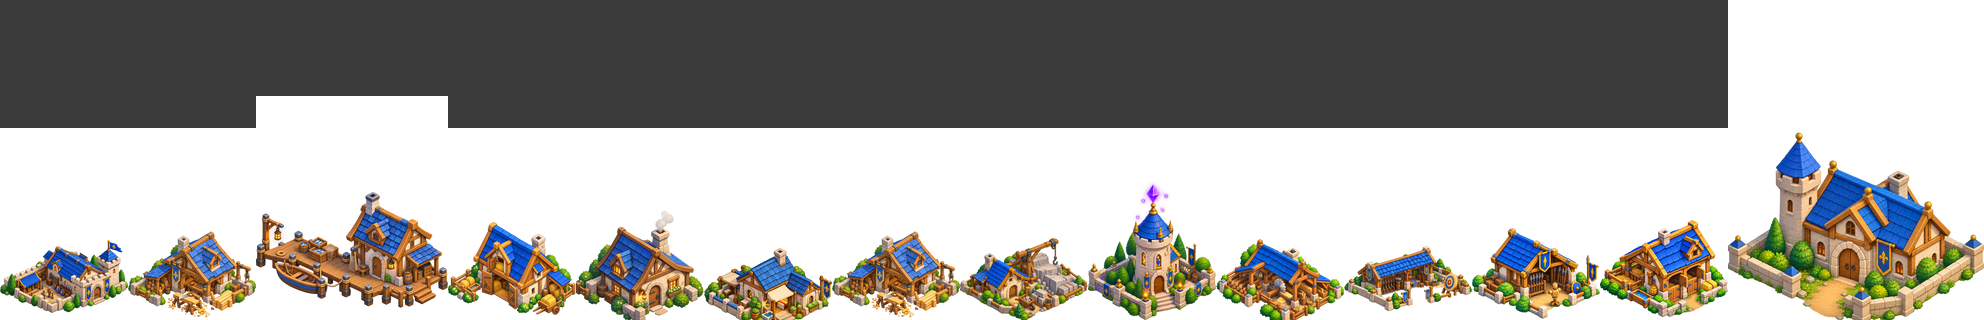
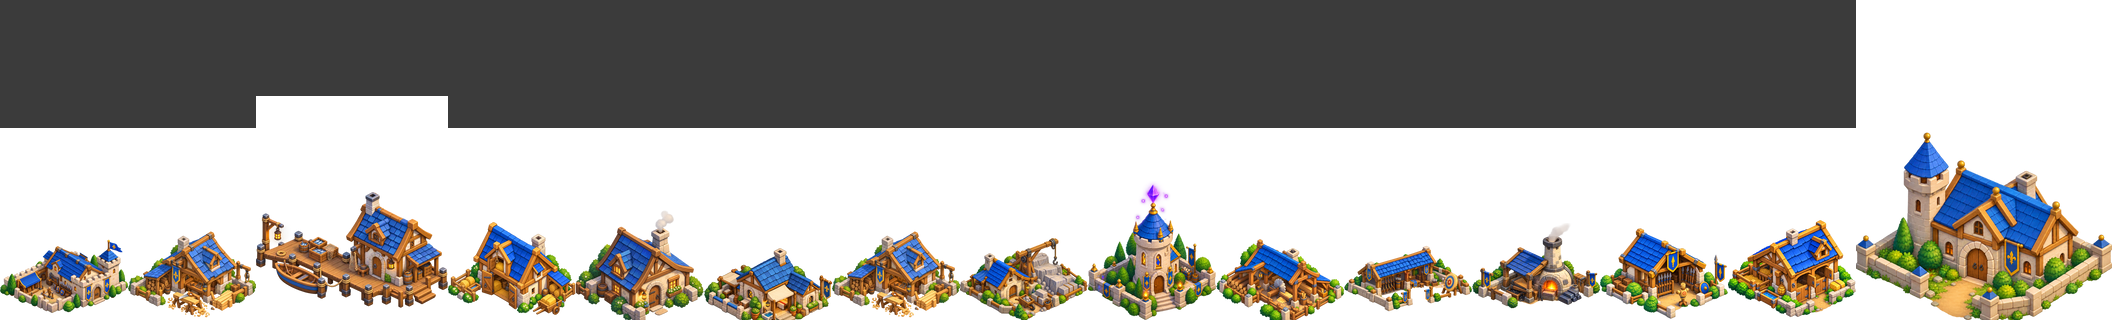
art(city): Smelter

diff --git a/Docs/art/city/scene.html b/Docs/art/city/scene.html
@@ -46,7 +46,7 @@ code{font-family:ui-monospace,monospace;font-size:.92em}
 </style></head><body class="">
 <header>
   <h1>Kingdom — the isometric city set</h1>
-  <span class="meta">2:1 · tile 128×64 · <strong id="n">14/22</strong> sprites</span>
+  <span class="meta">2:1 · tile 128×64 · <strong id="n">15/22</strong> sprites</span>
   <span class="ctl">
     <button id="m1" aria-pressed="true">Showcase</button>
     <button id="m2" aria-pressed="false">Village</button>
@@ -110,7 +110,7 @@ code{font-family:ui-monospace,monospace;font-size:.92em}
       <figcaption>Shooting Grounds<em>1×1</em></figcaption>
     </figure><figure class="card" style="width:150px">
       <div class="slot" style="width:128px;height:192px">
-        <svg class="grid" width="128" height="192"><path class="t on" d="M64 128l64 32l-64 32l-64 -32z"/></svg><div class="miss" style="left:0px;top:128px;width:128px;height:64px"><span>soon</span></div></div>
+        <svg class="grid" width="128" height="192"><path class="t on" d="M64 128l64 32l-64 32l-64 -32z"/></svg><img src="smelter_l1.png" alt="Smelter" width="128" height="192"></div>
       <figcaption>Smelter<em>1×1</em></figcaption>
     </figure><figure class="card" style="width:150px">
       <div class="slot" style="width:128px;height:192px">
@@ -146,7 +146,7 @@ code{font-family:ui-monospace,monospace;font-size:.92em}
       <figcaption>Well<em>1×1 · decoration</em></figcaption>
     </figure></div>
   <div id="v2" hidden><div class="stage" style="width:1688px;height:824px">
-<svg class="grid" width="1688" height="824"><path class="t" d="M844 300l64 32l-64 32l-64 -32z"/><path class="t" d="M780 332l64 32l-64 32l-64 -32z"/><path class="t" d="M716 364l64 32l-64 32l-64 -32z"/><path class="t on" d="M652 396l64 32l-64 32l-64 -32z"/><path class="t" d="M908 332l64 32l-64 32l-64 -32z"/><path class="t on" d="M844 364l64 32l-64 32l-64 -32z"/><path class="t on" d="M780 396l64 32l-64 32l-64 -32z"/><path class="t on" d="M716 428l64 32l-64 32l-64 -32z"/><path class="t" d="M972 364l64 32l-64 32l-64 -32z"/><path class="t on" d="M908 396l64 32l-64 32l-64 -32z"/><path class="t on" d="M844 428l64 32l-64 32l-64 -32z"/><path class="t on" d="M780 460l64 32l-64 32l-64 -32z"/><path class="t" d="M1036 396l64 32l-64 32l-64 -32z"/><path class="t on" d="M972 428l64 32l-64 32l-64 -32z"/><path class="t on" d="M908 460l64 32l-64 32l-64 -32z"/><path class="t" d="M844 492l64 32l-64 32l-64 -32z"/><path class="t" d="M908 204l64 32l-64 32l-64 -32z"/><path class="t" d="M844 236l64 32l-64 32l-64 -32z"/><path class="t on" d="M780 268l64 32l-64 32l-64 -32z"/><path class="t" d="M972 236l64 32l-64 32l-64 -32z"/><path class="t on" d="M908 268l64 32l-64 32l-64 -32z"/><path class="t" d="M1036 268l64 32l-64 32l-64 -32z"/><path class="t on" d="M972 300l64 32l-64 32l-64 -32z"/><path class="t" d="M1100 300l64 32l-64 32l-64 -32z"/><path class="t on" d="M1036 332l64 32l-64 32l-64 -32z"/><path class="t" d="M1164 332l64 32l-64 32l-64 -32z"/><path class="t" d="M1100 364l64 32l-64 32l-64 -32z"/><path class="t" d="M780 204l64 32l-64 32l-64 -32z"/><path class="t" d="M716 236l64 32l-64 32l-64 -32z"/><path class="t" d="M652 268l64 32l-64 32l-64 -32z"/><path class="t on" d="M716 300l64 32l-64 32l-64 -32z"/><path class="t" d="M588 300l64 32l-64 32l-64 -32z"/><path class="t" d="M652 332l64 32l-64 32l-64 -32z"/><path class="t" d="M1164 396l64 32l-64 32l-64 -32z"/><path class="t on" d="M1100 428l64 32l-64 32l-64 -32z"/><path class="t on" d="M1036 460l64 32l-64 32l-64 -32z"/><path class="t" d="M1228 428l64 32l-64 32l-64 -32z"/><path class="t" d="M1164 460l64 32l-64 32l-64 -32z"/><path class="t" d="M1100 492l64 32l-64 32l-64 -32z"/><path class="t on" d="M972 492l64 32l-64 32l-64 -32z"/><path class="t" d="M908 524l64 32l-64 32l-64 -32z"/><path class="t" d="M1036 524l64 32l-64 32l-64 -32z"/><path class="t" d="M972 556l64 32l-64 32l-64 -32z"/><path class="t on" d="M524 332l64 32l-64 32l-64 -32z"/><path class="t" d="M460 364l64 32l-64 32l-64 -32z"/><path class="t" d="M396 396l64 32l-64 32l-64 -32z"/><path class="t" d="M588 364l64 32l-64 32l-64 -32z"/><path class="t on" d="M524 396l64 32l-64 32l-64 -32z"/><path class="t" d="M460 428l64 32l-64 32l-64 -32z"/><path class="t" d="M588 428l64 32l-64 32l-64 -32z"/><path class="t" d="M524 460l64 32l-64 32l-64 -32z"/><path class="t" d="M716 492l64 32l-64 32l-64 -32z"/><path class="t on" d="M652 524l64 32l-64 32l-64 -32z"/><path class="t on" d="M780 524l64 32l-64 32l-64 -32z"/><path class="t" d="M716 556l64 32l-64 32l-64 -32z"/><path class="t" d="M844 556l64 32l-64 32l-64 -32z"/><path class="t" d="M780 588l64 32l-64 32l-64 -32z"/><path class="t on" d="M460 492l64 32l-64 32l-64 -32z"/><path class="t" d="M652 460l64 32l-64 32l-64 -32z"/><path class="t on" d="M588 492l64 32l-64 32l-64 -32z"/><path class="t" d="M524 524l64 32l-64 32l-64 -32z"/><path class="t" d="M588 556l64 32l-64 32l-64 -32z"/><path class="t on" d="M652 588l64 32l-64 32l-64 -32z"/><path class="t" d="M524 588l64 32l-64 32l-64 -32z"/><path class="t" d="M588 620l64 32l-64 32l-64 -32z"/><path class="t on" d="M716 620l64 32l-64 32l-64 -32z"/><path class="t" d="M652 652l64 32l-64 32l-64 -32z"/><path class="t" d="M844 620l64 32l-64 32l-64 -32z"/><path class="t" d="M780 652l64 32l-64 32l-64 -32z"/><path class="t" d="M716 684l64 32l-64 32l-64 -32z"/><path class="t" d="M396 460l64 32l-64 32l-64 -32z"/><path class="t" d="M332 492l64 32l-64 32l-64 -32z"/><path class="t" d="M396 524l64 32l-64 32l-64 -32z"/><path class="t" d="M460 556l64 32l-64 32l-64 -32z"/><path class="t" d="M1292 460l64 32l-64 32l-64 -32z"/><path class="t on" d="M1228 492l64 32l-64 32l-64 -32z"/><path class="t" d="M1164 524l64 32l-64 32l-64 -32z"/><path class="t" d="M1356 492l64 32l-64 32l-64 -32z"/><path class="t" d="M1292 524l64 32l-64 32l-64 -32z"/><path class="t" d="M1228 556l64 32l-64 32l-64 -32z"/><path class="t on" d="M1100 556l64 32l-64 32l-64 -32z"/><path class="t" d="M1036 588l64 32l-64 32l-64 -32z"/><path class="t" d="M1164 588l64 32l-64 32l-64 -32z"/><path class="t" d="M1100 620l64 32l-64 32l-64 -32z"/><path class="t" d="M908 588l64 32l-64 32l-64 -32z"/><path class="t on" d="M972 620l64 32l-64 32l-64 -32z"/><path class="t" d="M908 652l64 32l-64 32l-64 -32z"/><path class="t" d="M1036 652l64 32l-64 32l-64 -32z"/><path class="t" d="M972 684l64 32l-64 32l-64 -32z"/><path class="t" d="M1292 332l64 32l-64 32l-64 -32z"/><path class="t" d="M1228 364l64 32l-64 32l-64 -32z"/><path class="t" d="M1356 364l64 32l-64 32l-64 -32z"/><path class="t on" d="M1292 396l64 32l-64 32l-64 -32z"/><path class="t" d="M1420 396l64 32l-64 32l-64 -32z"/><path class="t" d="M1356 428l64 32l-64 32l-64 -32z"/><path class="t" d="M460 236l64 32l-64 32l-64 -32z"/><path class="t" d="M396 268l64 32l-64 32l-64 -32z"/><path class="t" d="M332 300l64 32l-64 32l-64 -32z"/><path class="t" d="M524 268l64 32l-64 32l-64 -32z"/><path class="t on" d="M460 300l64 32l-64 32l-64 -32z"/><path class="t" d="M396 332l64 32l-64 32l-64 -32z"/><path class="t" d="M268 332l64 32l-64 32l-64 -32z"/><path class="t" d="M204 364l64 32l-64 32l-64 -32z"/><path class="t" d="M140 396l64 32l-64 32l-64 -32z"/><path class="t" d="M76 428l64 32l-64 32l-64 -32z"/><path class="t" d="M332 364l64 32l-64 32l-64 -32z"/><path class="t on" d="M268 396l64 32l-64 32l-64 -32z"/><path class="t on" d="M204 428l64 32l-64 32l-64 -32z"/><path class="t" d="M140 460l64 32l-64 32l-64 -32z"/><path class="t on" d="M332 428l64 32l-64 32l-64 -32z"/><path class="t on" d="M268 460l64 32l-64 32l-64 -32z"/><path class="t" d="M204 492l64 32l-64 32l-64 -32z"/><path class="t" d="M268 524l64 32l-64 32l-64 -32z"/><path class="t" d="M1484 428l64 32l-64 32l-64 -32z"/><path class="t on" d="M1420 460l64 32l-64 32l-64 -32z"/><path class="t" d="M1548 460l64 32l-64 32l-64 -32z"/><path class="t on" d="M1484 492l64 32l-64 32l-64 -32z"/><path class="t" d="M1420 524l64 32l-64 32l-64 -32z"/><path class="t" d="M1612 492l64 32l-64 32l-64 -32z"/><path class="t" d="M1548 524l64 32l-64 32l-64 -32z"/><path class="t" d="M1484 556l64 32l-64 32l-64 -32z"/></svg><figure style="left:844px;top:140px;width:128px"><img src="housing_l1.png" alt="Housing" width="128" height="192"></figure><figure style="left:716px;top:140px;width:128px"><img src="housing_l1.png" alt="Housing" width="128" height="192"></figure><figure style="left:908px;top:172px;width:128px"><img src="housing_l1.png" alt="Housing" width="128" height="192"></figure><figure style="left:652px;top:172px;width:128px"><img src="housing_l1.png" alt="Housing" width="128" height="192"></figure><figure style="left:396px;top:172px;width:192px"><img src="docks_l1.png" alt="Docks" width="192" height="224"></figure><figure style="left:972px;top:204px;width:128px"><img src="housing_l1.png" alt="Housing" width="128" height="192"></figure><figure style="left:716px;top:172px;width:256px"><img src="townhall_l1.png" alt="Townhall" width="256" height="320"></figure><figure style="left:460px;top:268px;width:128px"><img src="quarry_l1.png" alt="Quarry" width="128" height="192"></figure><div class="miss" style="left:1228px;top:396px;width:128px;height:64px"><span>Rune Carver</span></div><div class="miss" style="left:140px;top:396px;width:256px;height:128px"><span>Shrine</span></div><div class="miss" style="left:588px;top:396px;width:128px;height:64px"><span>Garden</span></div><figure style="left:1036px;top:300px;width:128px"><img src="farm_l1.png" alt="Farm" width="128" height="192"></figure><div class="miss" style="left:844px;top:428px;width:256px;height:128px"><span>Plaza</span></div><div class="miss" style="left:652px;top:428px;width:128px;height:64px"><span>Statue</span></div><div class="miss" style="left:1356px;top:460px;width:192px;height:96px"><span>Orchard</span></div><div class="miss" style="left:716px;top:460px;width:128px;height:64px"><span>Well</span></div><figure style="left:908px;top:364px;width:128px"><img src="sawmill_l1.png" alt="Sawmill" width="128" height="192"></figure><figure style="left:524px;top:364px;width:128px"><img src="barracks_l1.png" alt="Barracks" width="128" height="192"></figure><figure style="left:396px;top:364px;width:128px"><img src="infirmary_l1.png" alt="Infirmary" width="128" height="192"></figure><figure style="left:1164px;top:364px;width:128px"><img src="carpenter_l1.png" alt="Carpenter" width="128" height="192"></figure><figure style="left:716px;top:396px;width:128px"><img src="sanctum_l1.png" alt="Sanctum" width="128" height="192"></figure><figure style="left:588px;top:396px;width:128px"><img src="spear_hall_l1.png" alt="Spear Hall" width="128" height="192"></figure><figure style="left:1036px;top:428px;width:128px"><img src="masons_yard_l1.png" alt="Mason's Yard" width="128" height="192"></figure><figure style="left:588px;top:460px;width:128px"><img src="shooting_grounds_l1.png" alt="Shooting Grounds" width="128" height="192"></figure><figure style="left:652px;top:492px;width:128px"><img src="stables_l1.png" alt="Stables" width="128" height="192"></figure><div class="miss" style="left:908px;top:620px;width:128px;height:64px"><span>Smelter</span></div></div></div>
+<svg class="grid" width="1688" height="824"><path class="t" d="M844 300l64 32l-64 32l-64 -32z"/><path class="t" d="M780 332l64 32l-64 32l-64 -32z"/><path class="t" d="M716 364l64 32l-64 32l-64 -32z"/><path class="t on" d="M652 396l64 32l-64 32l-64 -32z"/><path class="t" d="M908 332l64 32l-64 32l-64 -32z"/><path class="t on" d="M844 364l64 32l-64 32l-64 -32z"/><path class="t on" d="M780 396l64 32l-64 32l-64 -32z"/><path class="t on" d="M716 428l64 32l-64 32l-64 -32z"/><path class="t" d="M972 364l64 32l-64 32l-64 -32z"/><path class="t on" d="M908 396l64 32l-64 32l-64 -32z"/><path class="t on" d="M844 428l64 32l-64 32l-64 -32z"/><path class="t on" d="M780 460l64 32l-64 32l-64 -32z"/><path class="t" d="M1036 396l64 32l-64 32l-64 -32z"/><path class="t on" d="M972 428l64 32l-64 32l-64 -32z"/><path class="t on" d="M908 460l64 32l-64 32l-64 -32z"/><path class="t" d="M844 492l64 32l-64 32l-64 -32z"/><path class="t" d="M908 204l64 32l-64 32l-64 -32z"/><path class="t" d="M844 236l64 32l-64 32l-64 -32z"/><path class="t on" d="M780 268l64 32l-64 32l-64 -32z"/><path class="t" d="M972 236l64 32l-64 32l-64 -32z"/><path class="t on" d="M908 268l64 32l-64 32l-64 -32z"/><path class="t" d="M1036 268l64 32l-64 32l-64 -32z"/><path class="t on" d="M972 300l64 32l-64 32l-64 -32z"/><path class="t" d="M1100 300l64 32l-64 32l-64 -32z"/><path class="t on" d="M1036 332l64 32l-64 32l-64 -32z"/><path class="t" d="M1164 332l64 32l-64 32l-64 -32z"/><path class="t" d="M1100 364l64 32l-64 32l-64 -32z"/><path class="t" d="M780 204l64 32l-64 32l-64 -32z"/><path class="t" d="M716 236l64 32l-64 32l-64 -32z"/><path class="t" d="M652 268l64 32l-64 32l-64 -32z"/><path class="t on" d="M716 300l64 32l-64 32l-64 -32z"/><path class="t" d="M588 300l64 32l-64 32l-64 -32z"/><path class="t" d="M652 332l64 32l-64 32l-64 -32z"/><path class="t" d="M1164 396l64 32l-64 32l-64 -32z"/><path class="t on" d="M1100 428l64 32l-64 32l-64 -32z"/><path class="t on" d="M1036 460l64 32l-64 32l-64 -32z"/><path class="t" d="M1228 428l64 32l-64 32l-64 -32z"/><path class="t" d="M1164 460l64 32l-64 32l-64 -32z"/><path class="t" d="M1100 492l64 32l-64 32l-64 -32z"/><path class="t on" d="M972 492l64 32l-64 32l-64 -32z"/><path class="t" d="M908 524l64 32l-64 32l-64 -32z"/><path class="t" d="M1036 524l64 32l-64 32l-64 -32z"/><path class="t" d="M972 556l64 32l-64 32l-64 -32z"/><path class="t on" d="M524 332l64 32l-64 32l-64 -32z"/><path class="t" d="M460 364l64 32l-64 32l-64 -32z"/><path class="t" d="M396 396l64 32l-64 32l-64 -32z"/><path class="t" d="M588 364l64 32l-64 32l-64 -32z"/><path class="t on" d="M524 396l64 32l-64 32l-64 -32z"/><path class="t" d="M460 428l64 32l-64 32l-64 -32z"/><path class="t" d="M588 428l64 32l-64 32l-64 -32z"/><path class="t" d="M524 460l64 32l-64 32l-64 -32z"/><path class="t" d="M716 492l64 32l-64 32l-64 -32z"/><path class="t on" d="M652 524l64 32l-64 32l-64 -32z"/><path class="t on" d="M780 524l64 32l-64 32l-64 -32z"/><path class="t" d="M716 556l64 32l-64 32l-64 -32z"/><path class="t" d="M844 556l64 32l-64 32l-64 -32z"/><path class="t" d="M780 588l64 32l-64 32l-64 -32z"/><path class="t on" d="M460 492l64 32l-64 32l-64 -32z"/><path class="t" d="M652 460l64 32l-64 32l-64 -32z"/><path class="t on" d="M588 492l64 32l-64 32l-64 -32z"/><path class="t" d="M524 524l64 32l-64 32l-64 -32z"/><path class="t" d="M588 556l64 32l-64 32l-64 -32z"/><path class="t on" d="M652 588l64 32l-64 32l-64 -32z"/><path class="t" d="M524 588l64 32l-64 32l-64 -32z"/><path class="t" d="M588 620l64 32l-64 32l-64 -32z"/><path class="t on" d="M716 620l64 32l-64 32l-64 -32z"/><path class="t" d="M652 652l64 32l-64 32l-64 -32z"/><path class="t" d="M844 620l64 32l-64 32l-64 -32z"/><path class="t" d="M780 652l64 32l-64 32l-64 -32z"/><path class="t" d="M716 684l64 32l-64 32l-64 -32z"/><path class="t" d="M396 460l64 32l-64 32l-64 -32z"/><path class="t" d="M332 492l64 32l-64 32l-64 -32z"/><path class="t" d="M396 524l64 32l-64 32l-64 -32z"/><path class="t" d="M460 556l64 32l-64 32l-64 -32z"/><path class="t" d="M1292 460l64 32l-64 32l-64 -32z"/><path class="t on" d="M1228 492l64 32l-64 32l-64 -32z"/><path class="t" d="M1164 524l64 32l-64 32l-64 -32z"/><path class="t" d="M1356 492l64 32l-64 32l-64 -32z"/><path class="t" d="M1292 524l64 32l-64 32l-64 -32z"/><path class="t" d="M1228 556l64 32l-64 32l-64 -32z"/><path class="t on" d="M1100 556l64 32l-64 32l-64 -32z"/><path class="t" d="M1036 588l64 32l-64 32l-64 -32z"/><path class="t" d="M1164 588l64 32l-64 32l-64 -32z"/><path class="t" d="M1100 620l64 32l-64 32l-64 -32z"/><path class="t" d="M908 588l64 32l-64 32l-64 -32z"/><path class="t on" d="M972 620l64 32l-64 32l-64 -32z"/><path class="t" d="M908 652l64 32l-64 32l-64 -32z"/><path class="t" d="M1036 652l64 32l-64 32l-64 -32z"/><path class="t" d="M972 684l64 32l-64 32l-64 -32z"/><path class="t" d="M1292 332l64 32l-64 32l-64 -32z"/><path class="t" d="M1228 364l64 32l-64 32l-64 -32z"/><path class="t" d="M1356 364l64 32l-64 32l-64 -32z"/><path class="t on" d="M1292 396l64 32l-64 32l-64 -32z"/><path class="t" d="M1420 396l64 32l-64 32l-64 -32z"/><path class="t" d="M1356 428l64 32l-64 32l-64 -32z"/><path class="t" d="M460 236l64 32l-64 32l-64 -32z"/><path class="t" d="M396 268l64 32l-64 32l-64 -32z"/><path class="t" d="M332 300l64 32l-64 32l-64 -32z"/><path class="t" d="M524 268l64 32l-64 32l-64 -32z"/><path class="t on" d="M460 300l64 32l-64 32l-64 -32z"/><path class="t" d="M396 332l64 32l-64 32l-64 -32z"/><path class="t" d="M268 332l64 32l-64 32l-64 -32z"/><path class="t" d="M204 364l64 32l-64 32l-64 -32z"/><path class="t" d="M140 396l64 32l-64 32l-64 -32z"/><path class="t" d="M76 428l64 32l-64 32l-64 -32z"/><path class="t" d="M332 364l64 32l-64 32l-64 -32z"/><path class="t on" d="M268 396l64 32l-64 32l-64 -32z"/><path class="t on" d="M204 428l64 32l-64 32l-64 -32z"/><path class="t" d="M140 460l64 32l-64 32l-64 -32z"/><path class="t on" d="M332 428l64 32l-64 32l-64 -32z"/><path class="t on" d="M268 460l64 32l-64 32l-64 -32z"/><path class="t" d="M204 492l64 32l-64 32l-64 -32z"/><path class="t" d="M268 524l64 32l-64 32l-64 -32z"/><path class="t" d="M1484 428l64 32l-64 32l-64 -32z"/><path class="t on" d="M1420 460l64 32l-64 32l-64 -32z"/><path class="t" d="M1548 460l64 32l-64 32l-64 -32z"/><path class="t on" d="M1484 492l64 32l-64 32l-64 -32z"/><path class="t" d="M1420 524l64 32l-64 32l-64 -32z"/><path class="t" d="M1612 492l64 32l-64 32l-64 -32z"/><path class="t" d="M1548 524l64 32l-64 32l-64 -32z"/><path class="t" d="M1484 556l64 32l-64 32l-64 -32z"/></svg><figure style="left:844px;top:140px;width:128px"><img src="housing_l1.png" alt="Housing" width="128" height="192"></figure><figure style="left:716px;top:140px;width:128px"><img src="housing_l1.png" alt="Housing" width="128" height="192"></figure><figure style="left:908px;top:172px;width:128px"><img src="housing_l1.png" alt="Housing" width="128" height="192"></figure><figure style="left:652px;top:172px;width:128px"><img src="housing_l1.png" alt="Housing" width="128" height="192"></figure><figure style="left:396px;top:172px;width:192px"><img src="docks_l1.png" alt="Docks" width="192" height="224"></figure><figure style="left:972px;top:204px;width:128px"><img src="housing_l1.png" alt="Housing" width="128" height="192"></figure><figure style="left:716px;top:172px;width:256px"><img src="townhall_l1.png" alt="Townhall" width="256" height="320"></figure><figure style="left:460px;top:268px;width:128px"><img src="quarry_l1.png" alt="Quarry" width="128" height="192"></figure><div class="miss" style="left:1228px;top:396px;width:128px;height:64px"><span>Rune Carver</span></div><div class="miss" style="left:140px;top:396px;width:256px;height:128px"><span>Shrine</span></div><div class="miss" style="left:588px;top:396px;width:128px;height:64px"><span>Garden</span></div><figure style="left:1036px;top:300px;width:128px"><img src="farm_l1.png" alt="Farm" width="128" height="192"></figure><div class="miss" style="left:844px;top:428px;width:256px;height:128px"><span>Plaza</span></div><div class="miss" style="left:652px;top:428px;width:128px;height:64px"><span>Statue</span></div><div class="miss" style="left:1356px;top:460px;width:192px;height:96px"><span>Orchard</span></div><div class="miss" style="left:716px;top:460px;width:128px;height:64px"><span>Well</span></div><figure style="left:908px;top:364px;width:128px"><img src="sawmill_l1.png" alt="Sawmill" width="128" height="192"></figure><figure style="left:524px;top:364px;width:128px"><img src="barracks_l1.png" alt="Barracks" width="128" height="192"></figure><figure style="left:396px;top:364px;width:128px"><img src="infirmary_l1.png" alt="Infirmary" width="128" height="192"></figure><figure style="left:1164px;top:364px;width:128px"><img src="carpenter_l1.png" alt="Carpenter" width="128" height="192"></figure><figure style="left:716px;top:396px;width:128px"><img src="sanctum_l1.png" alt="Sanctum" width="128" height="192"></figure><figure style="left:588px;top:396px;width:128px"><img src="spear_hall_l1.png" alt="Spear Hall" width="128" height="192"></figure><figure style="left:1036px;top:428px;width:128px"><img src="masons_yard_l1.png" alt="Mason's Yard" width="128" height="192"></figure><figure style="left:588px;top:460px;width:128px"><img src="shooting_grounds_l1.png" alt="Shooting Grounds" width="128" height="192"></figure><figure style="left:652px;top:492px;width:128px"><img src="stables_l1.png" alt="Stables" width="128" height="192"></figure><figure style="left:908px;top:492px;width:128px"><img src="smelter_l1.png" alt="Smelter" width="128" height="192"></figure></div></div>
 </main>
 <footer>
   Every sprite is placed with the renderer's own formula —
